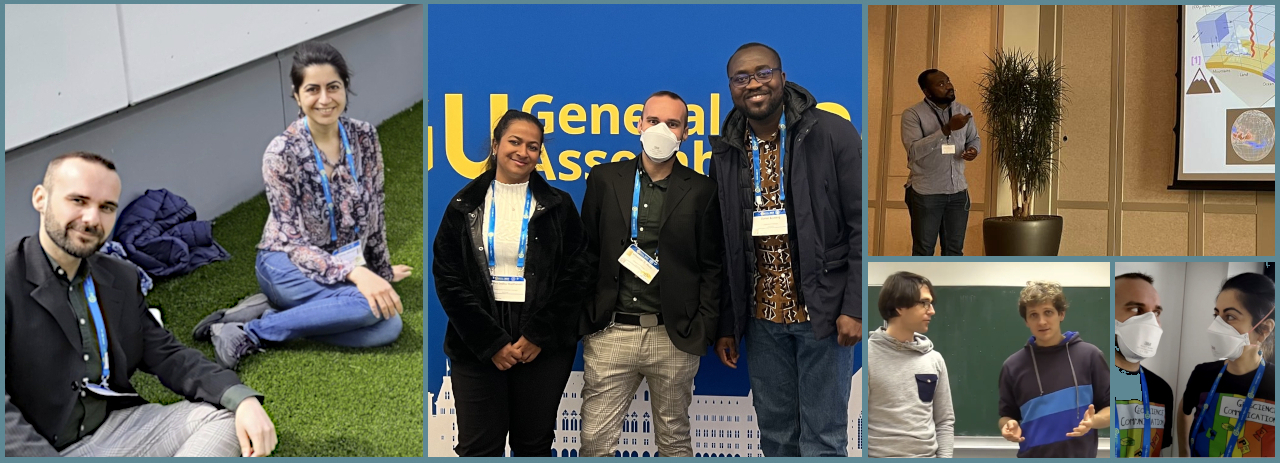
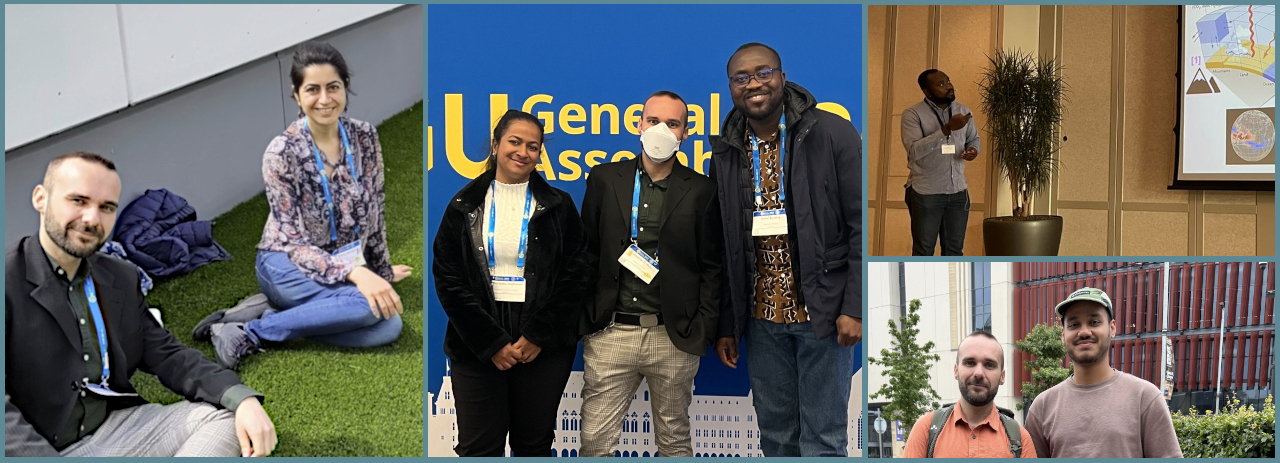
network update

Changed region(s): [[0.6562, 0.5443, 1.0, 0.9978]]

diff --git a/source/net/ppl.rst b/source/net/ppl.rst
@@ -16,6 +16,7 @@ Team Members and Collaborators
 .. |ico6| image:: img/ali.jpg
 .. |ico7| image:: img/karen.jpg
 .. |ico8| image:: img/akoto.jpg
+.. |ico9| image:: img/daniela.jpg
 
 
 .. topic:: Akoto, Doris Kyerewaa (PhD Researcher)
@@ -49,6 +50,14 @@ Team Members and Collaborators
 
     - Microbial communities in glacial environments
     - University of Glasgow (Scotland, UK)
+
+
+.. topic:: Castro-Camilo, Daniela (Dr., Senior Lecturer)
+
+    |ico9|
+
+    - Spatial/spatio-temporal extremes, climate extremes attribution, natural hazard and point process modelling
+    - University of Glasgow, School of Mathematics and Statistics (Scotland, UK)
 
 
 .. topic:: Eizenhöfer, Paul (Dr., Senior Lecturer)

diff --git a/source/net/net.rst b/source/net/net.rst
@@ -4,7 +4,7 @@ Network
 .. figure:: img/network.jpg
    :align: center
 
-   Left: S. Mutz and S. Mohadjer. Middle: A. Sedhu-madhavan (MSc student), S. Mutz  and D. Boateng (PhD student) at the EGU General Assembly 2023 in Vienna, Austria. Right Top: D. Boateng presenting his work. Right Bottom-Left: M. Nettesheim and R. Drews explaining liquefaction. Right Bottom-Right: S. Mutz and S. Mohadjer in "Geoscience Communication" shirts.
+   Left: S. Mutz and S. Mohadjer. Middle: A. Sedhu-madhavan (MSc student), S. Mutz  and D. Boateng (PhD student) at the EGU General Assembly 2023 in Vienna, Austria. Right Top: D. Boateng presenting his work. Right Bottom:S. Mutz and D. Ali in Glasgow.
 
 
 .. toctree::
